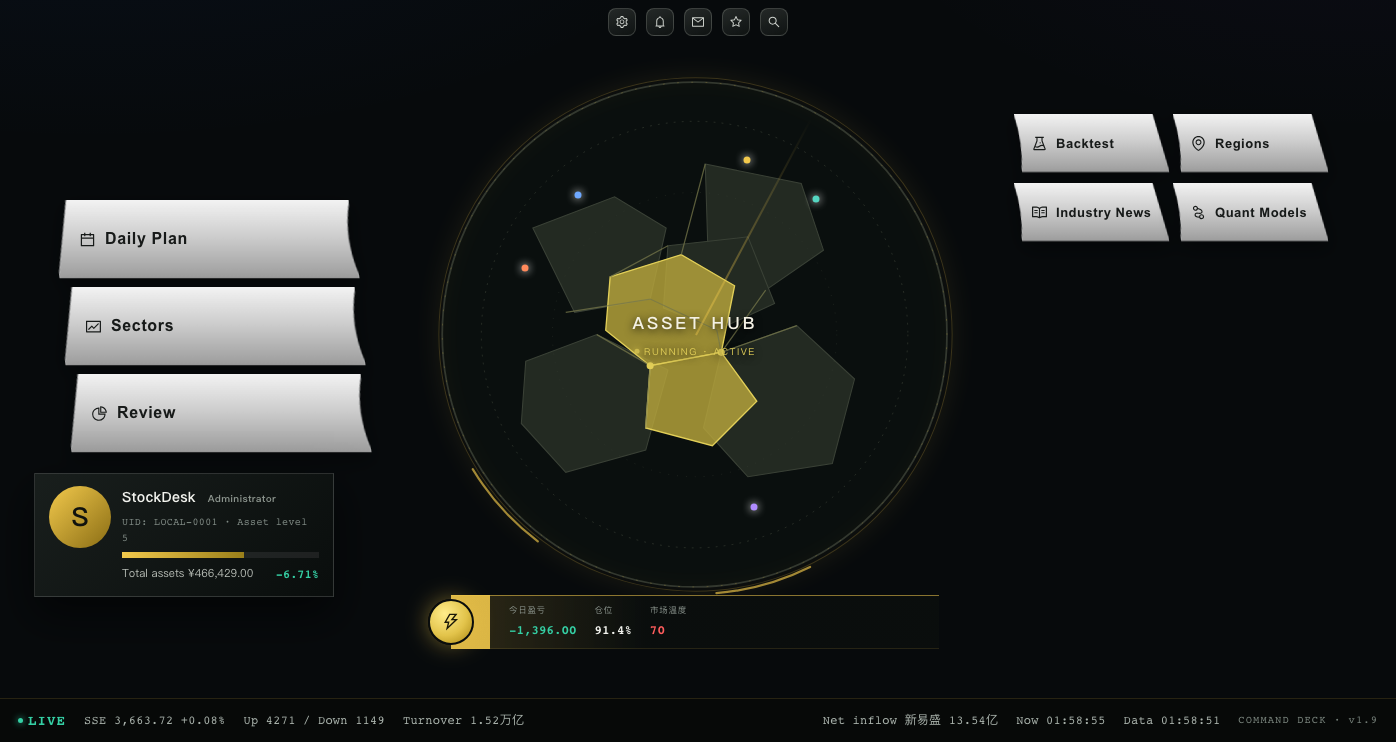
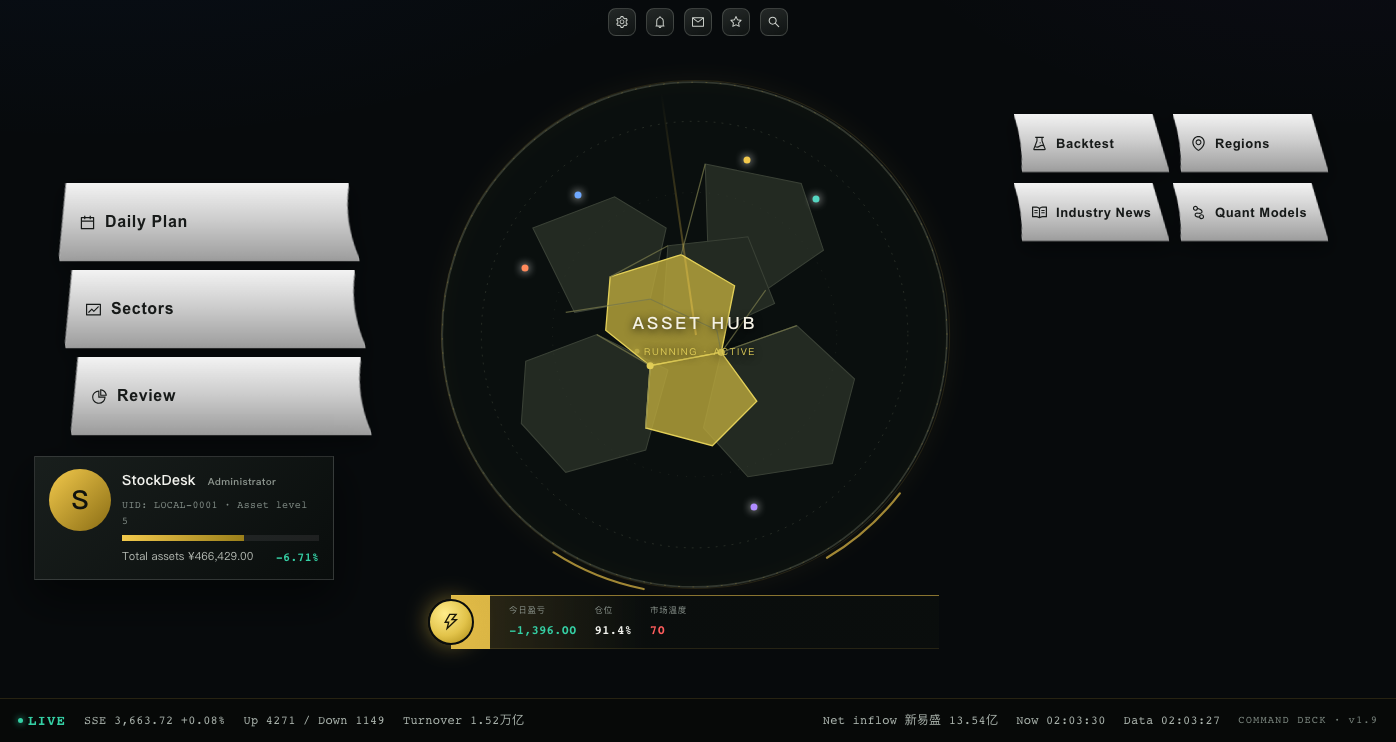
refresh final HUB screenshots and desktop README

diff --git a/desktop/README.md b/desktop/README.md
@@ -1,12 +1,16 @@
 # StockDesk · 个人股票投资台
 
 一个为个人投资者打造的**本地优先**股票投资工作台：行情、持仓记账、收益复盘、策略回测、选股与个股筹码分析，全部跑在自己电脑上。
-界面默认 **「指挥舱 HUD」**：深色圆形资产地图、左侧 4 个银色斜切模块、右侧 10 个功能模块贴中枢环绕、左下管理员名片、底部能量条；可切换明亮/深色。
+界面默认 **「指挥舱 HUD」**：深色圆形资产中枢、左侧 3 个放大银色斜切按键、右侧 4 个功能模块环绕、管理员名片并入左列下方；支持明亮/深色主题和 **中文 / English** 切换。
 数据来自东方财富公开行情接口，账户数据只保存在本地 SQLite 中。
 
 ![指挥舱 HUD](docs/preview-hud.png)
 
 ![HUD English](docs/preview-hud-en.png)
+
+| 120% 字体 | 150% 字体 |
+| --- | --- |
+| ![HUD 120%](docs/preview-hud-120.png) | ![HUD 150%](docs/preview-hud-150.png) |
 
 ![HUD 每日策略](docs/preview-hud-daily.png)
 
@@ -87,34 +91,21 @@ cd frontend && npm install && npm run build && cd ..
 - 图表（K 线、净值、回撤、资金曲线）随主题自动换色。
 
 ## v1.9 更新
-- **指挥舱 HUD 界面**：放大白色斜切按键，左 4/右 10 沿中枢环绕；中央地图带旋转轨道、脉冲光环、扫描线与「运行中」动态特效
-- **管理员名牌**：放大到 360px，头像 62px，名称/UID/资产字号同步放大；位于持仓账簿下方，不遮挡中枢
-- **按键排布**：白色按键上下边水平平行、无外斜/旋转；左右列严格对齐，朝向中枢的内侧边缘浅凹，外侧斜边
-- **底部状态条**：LIVE、指数、成交额、当前时间与数据更新时间整体放大
-- **新增入口**：市场情绪、个股热图、形态选股、主力追踪、热点榜、指标说明
-- **资产中枢**：点击圆形地图进入「中国上市公司分布」地图页，地图下方直达资产分析 / 投资建议 / 指数分析
-- **HUB 导航**：与 iOS 一致，隐藏侧边栏，页面左上角交互返回
-- **资产中枢地图**：中国上市公司分布，支持滚轮缩放/拖拽；全部省份领涨公司可折叠
-- **新增 HUB 入口**：地域（省份/城市行业偏好）、行业要闻（行业分析与投资趋势）、量化模型
-- **量化模型**：以 A 股为主，上证/沪深300/创业板/深证/科创50 五指数 HMM；HMM 决定总仓位、渗流决定行业与标的；含组合策略、买入/卖出条件、行业临界与关键标的、随机重排稳健性
-- **HUB 精简**：移除重复按键与持仓账簿按键；资产中枢点击进入持仓，地域页承载上市公司地图与分析入口
-- **个股仓位建议**：按持仓、HMM、行业渗流给出加仓/减仓/止损股数与买卖区间
-- **稳定性与分享**：资产快照本地缓存；HUB 不显示分享，进入子页面后分享当前完整页面为 PNG，可保存后发送到微信/Notes
-  - 资产分析：资金分配、交易偏好、收益趋势、交易习惯总结
-  - 投资建议：市场历史总结、未来趋势、要闻与标的推荐
-  - 指数分析：上证、沪深300、创业板、科创50、标普500、纳斯达克、道琼斯及注意事项
-- **资产等级**：按可用现金的位数计算（0-9=1，10-99=2，100-999=3…）
-- **管理员名片**：名称与 UID 可在设置中修改，显示在中枢左下角
-- **异常提醒 / 笔记**：顶栏铃铛显示异常条件与命中项，信封记录交易笔记
-- **添加自选**：热门列出涨速最高的 10 只股票（名称/代码/行业/涨速）
-- **时间戳**：HUD 底部显示当前时间（秒）与最新数据更新时间
-- **管理员名牌**：放大到 360px，头像 62px，名称/UID/资产字号同步放大；位于持仓账簿下方，不遮挡中枢
-- **按键排布**：白色按键上下边水平平行、无外斜/旋转；左右列严格对齐，朝向中枢的内侧边缘浅凹，外侧斜边
-- **底部状态条**：LIVE、指数、成交额、当前时间与数据更新时间整体放大与其他内容
-- **主题切换**：指挥舱 / 明亮 / 深色，设置页可选择；HUD 为默认主题
-- **自适应布局**：宽屏三栏、窄屏堆叠；模块点击/hover 有交互反馈
-- **全部页面 HUD 换肤**：黄色描边、深色卡片、网格背景
-- 原有功能保持不变
+
+- **HUB 精简为 7 个入口**：左侧 3 个（每日策略、板块跟踪、收益复盘），右侧 4 个（策略回测、地域、行业要闻、量化模型）
+- **白色按键放大**：左侧按钮 300×78，右侧模块加高；按键随文字自动增高，不裁切
+- **左列整体下移**：每日策略与右侧第二行严格对齐；管理员名片并入左列下方，不再固定屏幕底部
+- **资产中枢**：中央圆形地图、旋转轨道、脉冲光环、扫描线与「运行中」动态效果；点击进入持仓
+- **字体缩放**：设置内提供 100% / 120% / 150%，只放大文字，地图和固定图形不拉伸；卡片/表格自动换行、增行，避免遮挡
+- **中英双语**：顶栏 EN / 中切换，设置内也可选择；语言本地保存
+- **底部状态条**：LIVE、指数、成交额、当前时间与数据更新时间；150% 时改为流式布局，不覆盖管理员名片
+- **图片分享**：HUB 不显示分享；进入子页面后分享当前完整页面为 PNG，可发送到微信 / Notes
+- **主题**：指挥舱 HUD / 明亮 / 深色，右上角一键切换并记忆
+- **HUB 导航**：隐藏侧边栏，页面左上角返回；宽屏三栏、窄屏自动收敛
+- **资产中枢地图**：中国上市公司分布，支持缩放/拖拽；省份龙头可折叠
+- **量化模型**：A 股 5 指数 HMM + 渗流最大连通簇；HMM 决定总仓位，渗流决定行业与标的；含行业临界、关键标的、随机重排稳健性和个股仓位建议
+- **稳定性**：资产快照本地缓存，启动不短暂归零；账户数据仅保存在本地 SQLite
+- **管理**：管理员名称/UID 可在设置修改；资产等级按可用现金位数计算
 
 ## v1.3 更新
 

diff --git a/README.md b/README.md
@@ -9,6 +9,8 @@ Mac · Windows · iOS · US Equities
 
 ![Mac HUB](screenshots/mac-hub.png)
 
+![Mac HUB English](screenshots/mac-hub-en.png)
+
 ---
 
 ## 中文
